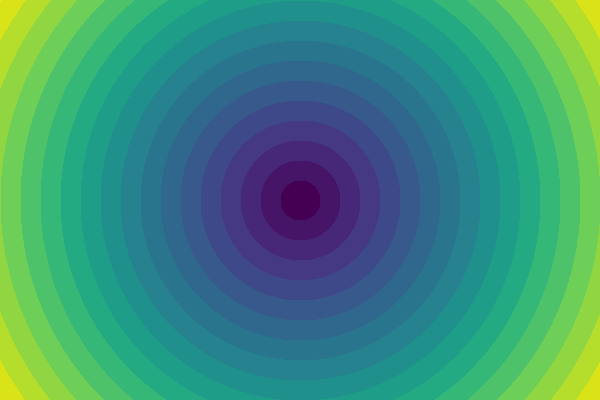
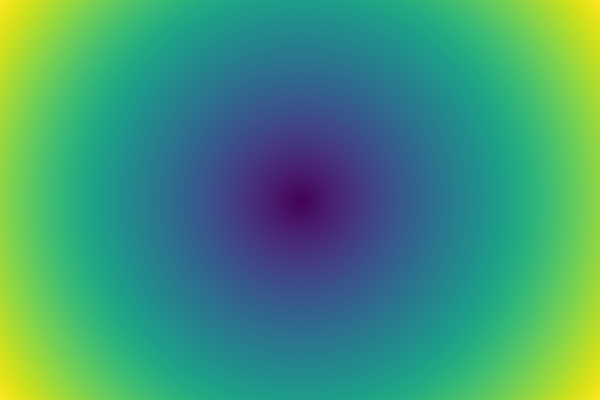
fixed blurrer

Changed region(s): [[0.81, 0.0, 1.0, 1.0], [0.0, 0.0, 0.18, 1.0]]

diff --git a/build_blur.py b/build_blur.py
@@ -5,12 +5,19 @@ from PIL import Image
 from matplotlib import pyplot as plt
 
 
-def create_sigma_schedule(dist_to_sigma = lambda x: torch.sqrt(x) // 20, size = (400, 600)):
+def create_sigma_schedule(dist_to_sigma = lambda x: torch.sqrt(x) / 100 + 0.4, size = (400, 600)):
+    '''Create a scheule for gaussian blur creation
+    We pass a function that tells us how ot convert the distance
+    form the center to the point into the values of sigma for particular point.
+    size is the size of the image.
+    the function returns a tensor of shape size with correesponding sigma in each element
+    '''
     x, y = size
-    X, Y = torch.meshgrid(torch.arange(x), torch.arange(y))
+    X, Y = torch.meshgrid(torch.arange(x), torch.arange(y), indexing="ij")
     return dist_to_sigma((X - x//2)**2 + (Y - y//2)**2)
 
 def create_gaussian_kernel(size: int, sigmas: torch.Tensor):
+    '''This function creates a gaussian kernel for each sigma in tensor sigma'''
     if size % 2 == 0:
         raise ValueError("Size must be odd.")
     
@@ -24,7 +31,9 @@ def create_gaussian_kernel(size: int, sigmas: torch.Tensor):
 
 def test_gaussian(size = 15, sigma = 4, index = 4):
     schedule = create_sigma_schedule()
+    print("schedule size: ", schedule.size())
     gauss = create_gaussian_kernel(size, schedule)
+    print("gauss size: ", gauss.size())
     plt.imsave(f"gaussian{size}_{sigma}.png", gauss[index])
 
 def apply_uniform_blur(img: torch.Tensor, gaussian_kernel: torch.Tensor):
@@ -37,34 +46,35 @@ def apply_uniform_blur(img: torch.Tensor, gaussian_kernel: torch.Tensor):
 
     b, c, m, n = img.size()
     kernel_size = gaussian_kernel.size()[-1]
-    gaussian_kernel = gaussian_kernel.view(m * n, kernel_size * kernel_size)
+    gaussian_kernel = gaussian_kernel.view(1, 1, m * n, kernel_size * kernel_size)
     pad = int((kernel_size-1)/2)
     img_pad = torch.nn.functional.pad(img, pad=(pad,pad,pad,pad), mode='replicate')
     img_unfold = torch.nn.functional.unfold(img_pad, (kernel_size, kernel_size)).view(b,c,-1,m*n)
     print(img_unfold.transpose(2, 3).size())
-    print(gaussian_kernel.view(-1, m*n).size())
-
-    filter_unfold = img_unfold.transpose(2, 3).matmul(gaussian_kernel.view())
-    print(img_unfold.size())
-    print(filter_unfold.size())
     print(gaussian_kernel.size())
-    
-    
-    
 
+    filter_unfold = (img_unfold.transpose(2, 3)*(gaussian_kernel)).sum(-1).squeeze(-1)
+    return filter_unfold.view(b, c, m, n)
+    
+    
 
 # apply spatially varying blur
 # Unfold + matmul + fold worked flawlessly.
 # https://discuss.pytorch.org/t/2d-convolution-with-different-kernel-per-location/42969  
 
 if __name__ == "__main__":
-    test_gaussian(55, 20)
-    test_gaussian(105, 20)
-    schedule = create_sigma_schedule()
-    plt.imsave(f"schedule.png", schedule / 15.0)
+    # test_gaussian(55, 20)
+    # test_gaussian(105, 20)
+
 
     im = Image.open("test.jpg")
     np_image = np.array(im)
     np_image = np_image.transpose((2, 0, 1)) / 255.0
     img = torch.from_numpy(np_image).float()  # Ensure the tensor is of type float
-    apply_uniform_blur(img, create_gaussian_kernel(7, create_sigma_schedule()))
+    schedule = create_sigma_schedule()
+    plt.imsave(f"schedule.png", schedule)    
+    filtered = apply_uniform_blur(img, create_gaussian_kernel(45, schedule))
+    result = filtered[0].numpy().transpose(1, 2, 0)
+    plt.imsave(f"filtered.png", result)
+
+
